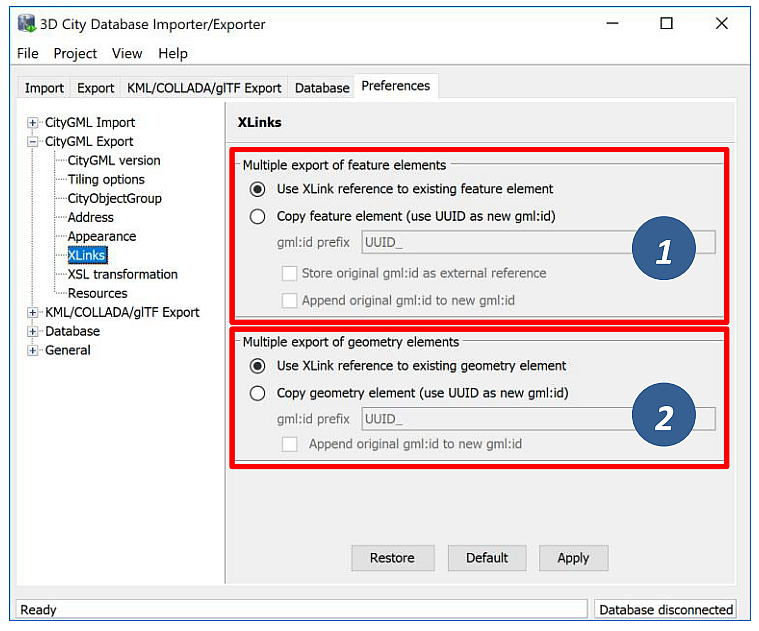
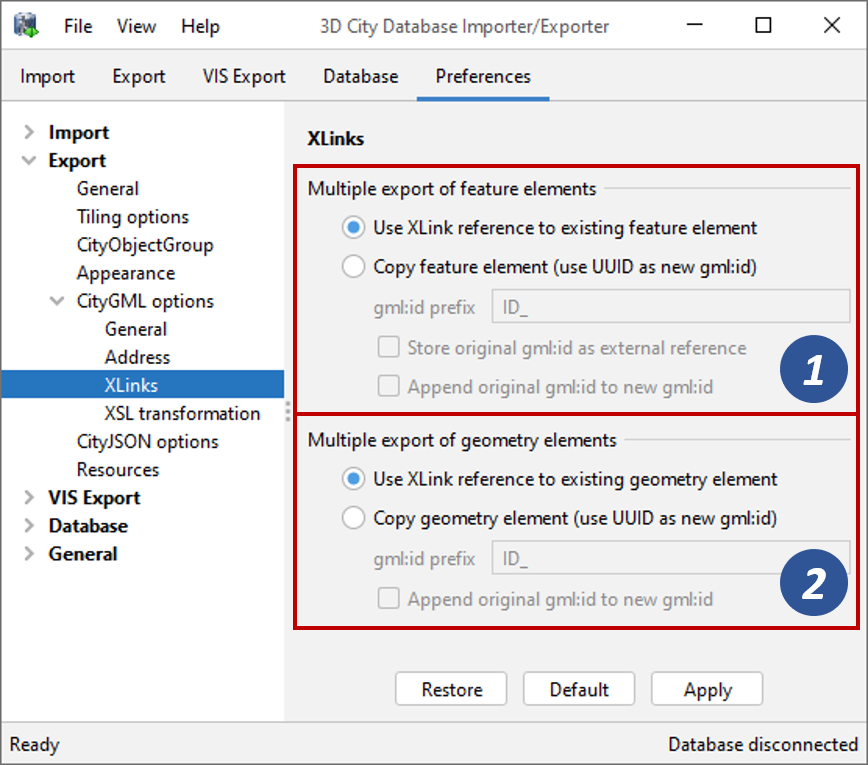
adapted CityGML/CityJSON export chapter

Changed region(s): [[0.0, 0.0, 1.0, 1.0]]

diff --git a/source/impexp/export-preferences/resources.rst b/source/impexp/export-preferences/resources.rst
@@ -3,25 +3,72 @@
 Resources
 ^^^^^^^^^
 
-Just like with CityGML imports, the export process is implemented based
-on multithreaded data processing in order to increase the overall
-application performance. Likewise, in order to reconstruct XLinks during
-exports (cf. :numref:`impexp_export_preferences_xlinks_chapter`),
-the export process also needs to keep
-track of each and every gml:id of exported features and geometry
-objects. For fast access, the gml:id values are kept in main memory and
-are only paged to temporary database tables in case the predefined cache
-size limit is reached.
-
 .. figure:: /media/impexp_export_preferences_resources_fig.png
    :name: impexp_export_preferences_resources_fig
    :align: center
 
    Export preferences – Resources.
 
-The Resource preferences allow for setting the number of *concurrent
-threads* to be used in the export process and for defining the *sizes*
-and *page factors* of the gml:id caches for features and geometries. The
-meaning of the values is identical to the Resource preferences for
-CityGML imports. So, please refer to
+**Multithreaded processing**
+
+The export process is implemented based
+on multithreaded data processing in order to increase the overall
+export performance. The *Resource* preferences allow for setting the
+minimum and maximum number of *concurrent threads* to be used in the
+export process [1]. Make sure to enter reasonable values depending on
+your hardware configuration. By default, the maximum number is set to
+the number of available CPUs/cores times two.
+
+.. caution::
+   A higher number of threads *does not necessarily result in a
+   better performance*. In contrast, a too high number of active threads
+   faces disadvantages such as thread life-cycle overhead and resource
+   thrashing. Also note that each thread requires its *own physical
+   connection to the database*. Therefore, your database must be ready to
+   handle enough parallel physical connections. Ask you database
+   administrator for assistance.
+
+**Batch processing**
+
+In order to optimize database response times, multiple features
+satisfying the export filters are requested from a feature table
+with a single SELECT statement rather than using a separate request
+for each feature (*batch processing*). This allows for reducing
+the number of overall SELECT statements that are sent to the database
+to fetch the data. Especially in case the Importer/Exporter and the database
+server are not running in the same local network and, thus, the
+network latency is high, batch processing can help to reduce the export
+time. Batch processing is also applied in the same way for fetching
+geometries and BLOB data such as texture images. The preferences dialog
+allows for setting the number of objects to be fetched with one request
+for all three cases [2] (default: 30).
+
+.. note::
+   All objects requested within one batch from the database are
+   processed in main memory. Thus, the Importer/Exporter might run
+   out of memory if the batch size is too high
+   (see :numref:`impexp_launching_chapter` for how to increase the available
+   main memory).
+
+**Object identifier cache**
+
+To be able to reconstruct XLink references
+for CityGML exports (cf. :numref:`impexp_export_preferences_xlinks_chapter`),
+the export process needs to keep track of the identifiers (*gml:id* values) of
+exported features and geometry objects. For fast access, the identifiers
+are kept in main memory and are only drained to temporary tables
+in case the predefined cache size limit is reached.
+
+You can define the maximum number of identifiers to be held in main memory
+as well as the *page factor* and number of parallel *table partitions*
+used for the feature and geometry caches [3]. The meaning of the values is identical to
+the *Resource* preferences for the import operation. So, please refer to
 :numref:`impexp_import_preferences_resources_chapter` for more details.
+
+.. note::
+  By default, the temporary tables for draining the caches are created
+  in the same 3D City Database instance. You can also choose
+  to use a local cache instead (see :numref:`impexp_general_preferences_cache` for more details).
+  However, note that some temporary information must be stored in the
+  database even if you use a local cache to be able to perform JOINs between
+  temporary tables and tables of the 3DCityDB schema.

diff --git a/source/impexp/export-preferences/cityjson.rst b/source/impexp/export-preferences/cityjson.rst
@@ -2,3 +2,77 @@
 
 CityJSON options
 ^^^^^^^^^^^^^^^^
+
+.. note::
+  These preference settings only apply to CityJSON exports.
+
+.. figure:: /media/impexp_export_preferences_cityjson_fig.png
+   :name: impexp_export_preferences_cityjson_fig
+   :align: center
+
+   Export preferences – CityJSON options.
+
+**General options**
+
+For CityJSON exports, the preference settings shown in :numref:`impexp_export_preferences_cityjson_fig`
+allow the user to enable *pretty printing* for the output file
+(default: disabled). When enabled, indentation is used for the JSON document
+and JSON elements are put on a new line. Without pretty printing,
+the entire data is put on a single long line. The file size will
+be considerably smaller without pretty printing, but the content is
+difficult to visually comprehend.
+
+To reduce the file size, CityJSON also offers a way to compress the
+geometry by representing the coordinates of vertices with integer values
+rather than doubles (also called *quantization*). The scale factor and the translation needed to obtain
+the original coordinates are also stored in the file. Simply
+enable the *Use geometry compression* option to apply this compression
+method (enabled by default).
+
+In CityGML, geometries can be reused using XLink references in order
+to avoid duplicate geometries. For example, assume a building with a dormer.
+The ``bldg:Building`` object in CityGML could be modelled such that
+its geometry (``gml:Solid`` or ``gml:MultiSurface``) also contains
+the shape of the dormer. In addition, the dormer itself can be modelled as
+separate ``bldg:BuildingInstallation`` child object of the building with its
+own geometry, which would reference those polygons from the building's geometry that describe
+the shape of the dormer.
+
+CityJSON does not support reusing or referencing geometries.
+When exporting the above example as CityJSON, the ``"BuildingInstallation"`` would
+therefore also have its own geometry, but since the polygons from the ``"Building"``
+object cannot be referenced, this geometry would be duplicate. To avoid issues
+with duplicate geometries in applications consuming the data, you can
+activate the *Remove duplicate geometries of child objects* option.
+
+.. note::
+  If the child object does not have any remaining geometry after removing the
+  duplicate polygons, the entire child object will be removed as well.
+
+Another general option available for CityJSON exports is to add a special
+attribute of name ``"sequenceId"`` to every top-level city object when sorting
+is enabled for the export (see :numref:`impexp_xml_query_sort_by`). In a CityJSON file,
+all city objects are stored as ``"CityObjects"`` collection.
+This collection, however, is an unordered set and thus cannot be guaranteed
+to reflect the result of the sorting operation. The ``"sequenceId"`` therefore adds
+this information by storing the index of the city object in the sorted result set.
+
+.. note::
+  The ``"sequenceId"`` uses zero-based numbering. Thus, the first top-level object
+  according to the sorting criteria is assigned the index 0, rather than the index 1.
+
+**Precision**
+
+For both the coordinates of vertices and texture coordinates, you can define the
+number of decimal places that should be kept in the output file. If the number
+of decimal places is greater in the database, the coordinates values
+are rounded accordingly during export. This helps to reduce the size of the
+resulting output file. The default behaviour is to keep *3 decimal places* for vertex coordinates
+and *7 decimal places* for texture coordinates.
+
+.. caution::
+  A side-effect of rounding coordinate values is that two very close but distinct vertices
+  in the database might receive the same coordinate values in the CityJSON file.
+  If these two vertices are, for instance, consecutive points on the ring of a polygon, the
+  Importer/Exporter **will not remove** one or the other from the ring. Thus, the
+  exported polygon will contain duplicate consecutive points.

diff --git a/source/impexp/export-preferences/appearance.rst b/source/impexp/export-preferences/appearance.rst
@@ -3,7 +3,7 @@
 Appearance
 ^^^^^^^^^^
 
-The Appearance export preferences control how appearance information of
+The appearance export preferences control how appearance information of
 city objects is written to the output datasets.
 
 .. figure:: /media/impexp_export_preferences_appearance_fig.png
@@ -15,7 +15,7 @@ city objects is written to the output datasets.
 By default, both appearance information and texture image files
 associated with the city objects in the 3D City Database are exported
 [1]. Alternatively, the user can choose to only export the appearance
-information without textures or to drop appearances completely.
+information without textures or to skip appearances completely.
 
 When exporting texture files, the additional options *Overwrite existing
 texture files* and *Generate unique texture filenames* influence the way
@@ -38,24 +38,28 @@ in which texture files are written to the file system [1].
    instance documents are assigned a texture image file of the same
    name but with different content. In the 3D City Database, texture
    images are stored in separate records and thus duplicate filenames
-   are not an issue. When exporting to CityGML, however, two texture
+   are not an issue. When exporting the data, however, two texture
    files of the same name might be written to the same target folder,
    in which case one is replaced with the other. This will obviously
    lead to false visualizations and issues in workflows consuming the
-   exported CityGML data. For this reason, checking this option
+   exported data. For this reason, checking this option
    will force the export process to generate unique and stable
    filenames for each texture file.
 
 The location where to store the texture files can be defined by the user
 [2]. The default option is to pick a folder below the export directory
-and thus relative to the target CityGML file. The default folder name is
-“\ *appearance*\ ”. Instead of a local path, also an absolute path can
+and thus relative to the output file. The default folder name is
+*"appearance"*. Instead of a local path, also an absolute path can
 be provided. In this case, the same folder will be used in subsequent
 exports from the 3D City Database.
 
+.. note::
+  When the data is exported into a ZIP archive, texture files are
+  also stored inside the archive if a local path is chosen.
+
 When appearances are chosen to be exported but the *Do not store texture
 files* option [1] is checked, then appearance information is generated
-for the city objects in the CityGML dataset, but the texture files are
+for the city objects in the output file, but the texture files are
 not stored in the file system. However, since the texture path is part
 of the appearance information, the directory settings [2] and whether to
 generate unique texture filenames [1] still has an impact on the

diff --git a/source/impexp/export-preferences/xlinks.rst b/source/impexp/export-preferences/xlinks.rst
@@ -3,15 +3,24 @@
 XLinks
 ^^^^^^
 
+.. note::
+  These preference settings only apply to CityGML exports.
+
 Both the 3D City Database and the Importer/Exporter are capable of
 handling XLinks. If the CityGML input document that is imported into the
 3D City Database contains XLink references to features and/or
 geometries, then this information is kept in the database in order to be
-able to reconstruct the XLinks upon database export. This is also the
+able to reconstruct the XLinks when the data is exported again. This is also the
 default behavior.
 
+.. figure:: /media/impexp_export_preferences_xlinks_fig.png
+   :name: impexp_export_preferences_xlinks_fig
+   :align: center
+
+   Export preferences – XLinks.
+
 Depending on the target application that consumes the exported CityGML
-dataset, this default behavior may be disadvantageous, especially if the
+dataset, this default behavior may be disadvantageous though, especially if the
 target application cannot follow and resolve XLink references. In such
 cases, the XLinks preference settings let a user change the default
 behavior so that the referenced objects are exported *by value* rather
@@ -23,16 +32,10 @@ gml:id values are not allowed in the same dataset. The Importer/Exporter
 takes care of this issue and creates new gml:id values for the copies
 based on UUID values.
 
-.. figure:: /media/impexp_export_preferences_xlinks_fig.png
-   :name: impexp_export_preferences_xlinks_fig
-   :align: center
-
-   Export preferences – XLinks.
-
 The user can define the behavior for exporting XLinks differently for
 features [1] and geometries [2]. The settings allow providing a
 *prefix* string that will be used when creating new gml:id values
-(default: “\ *UUID\_*\ ”) and whether the original gml:id should be
+(default: *"ID_"*) and whether the original gml:id should be
 appended to the newly created one. Only for features, the user can
 additionally choose to store the original gml:id as ``<ExternalReference>``
 property in the copied feature.

diff --git a/source/impexp/export-preferences/xsl-transformation.rst b/source/impexp/export-preferences/xsl-transformation.rst
@@ -3,7 +3,10 @@
 XSL Transformation
 ^^^^^^^^^^^^^^^^^^
 
-As for CityGML imports, you can apply XSLT transformations
+.. note::
+  These preference settings only apply to CityGML exports.
+
+Like with CityGML imports, you can apply XSL transformations
 during the export process to change the resulting CityGML output data.
 Simply check the *Apply XSLT stylesheets* option and point to an XSLT
 stylesheet in your local file system using the *Browse* button. The
@@ -16,7 +19,7 @@ transform the CityGML data before it is written to a file.
 
    Export preferences – XSL transformation.
 
-By clicking the + and - buttons, more than one XSLT stylesheet can be
+By clicking the ``+`` and ``-`` buttons, more than one XSLT stylesheet can be
 provided to the exporter. The stylesheets are applied in the given order,
 with the output of a stylesheet being the input for its direct
 successor. The Importer/Exporter is shipped with example XSLT
@@ -26,7 +29,7 @@ installation directory.
 .. note::
    - To be able to handle arbitrarily large exports, the export
      process reads single top-level features from the database, which are
-     then written to the target file. Each XSLT stylesheet will thus just
+     then written to the target file. Thus, each XSLT stylesheet will just
      work on individual top-level features but not on the entire file.
    - The output of each XSLT stylesheet must again be a valid CityGML
      structure.

diff --git a/source/impexp/import-preferences/resources.rst b/source/impexp/import-preferences/resources.rst
@@ -50,8 +50,9 @@ and cache entries for object identifiers and temporary XLink information
 .. note::
    All database operations within one batch are buffered in main
    memory before being submitted to the database. Thus, the
-   Importer/Exporter might run out of memory if the batch size is too high.
-   After a batch is submitted, the transaction is committed.
+   Importer/Exporter might run out of memory if the batch size is too high
+   (see :numref:`impexp_launching_chapter` for how to increase the available
+   main memory). After a batch is submitted, the transaction is committed.
 
 **Cache settings**
 
@@ -94,3 +95,11 @@ partitions*, default: 10). The Importer/Exporter uses separate
 caches for identifiers of geometries and features [3]. Moreover, a
 third cache is used for handling texture atlases and offers similar
 settings [4].
+
+.. note::
+  By default, the temporary tables for draining the caches are created
+  in the same 3D City Database instance. You can also choose
+  to use a local cache instead (see :numref:`impexp_general_preferences_cache` for more details).
+  However, note that some temporary information must be stored in the
+  database even if you use a local cache to be able to perform JOINs between
+  temporary tables and tables of the 3DCityDB schema.

diff --git a/source/impexp/export-preferences/citygml-general.rst b/source/impexp/export-preferences/citygml-general.rst
@@ -2,3 +2,23 @@
 
 CityGML general
 ^^^^^^^^^^^^^^^
+
+.. note::
+  These preference settings only apply to CityGML exports.
+
+The general CityGML export options allow you to enable *pretty printing*
+for the output file.
+
+.. figure:: /media/impexp_export_preferences_citygml_general_fig.png
+   :name: impexp_export_preferences_citygml_general_fig
+   :align: center
+
+   Export preferences – General CityGML options.
+
+When enabled (default), indentation is used for the XML document
+and every XML element is put on a new line. Without pretty printing,
+the entire data is put on a single long line. The file size will
+be considerably smaller without pretty printing, but the content is
+difficult to visually comprehend. Pretty printing should therefore
+be disabled in case the file is mainly used in machine-to-machine
+communication.

diff --git a/source/impexp/export-preferences/index.rst b/source/impexp/export-preferences/index.rst
@@ -18,3 +18,4 @@ preference settings that are presented in this chapter.
    xlinks
    xsl-transformation
    cityjson
+   resources
